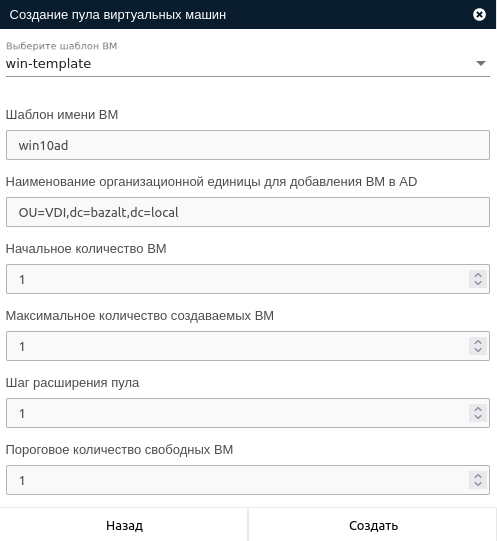
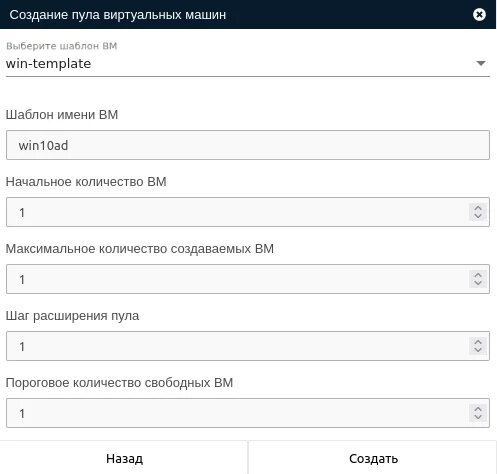
FEATURE TG-14658 + FEATURE TG-14659 подготовка гостевой пул + дока

diff --git a/frontend/src/app/pages/pools/pool-details/pool-details.component.ts b/frontend/src/app/pages/pools/pool-details/pool-details.component.ts
@@ -267,38 +267,6 @@ export class PoolDetailsComponent implements OnInit, OnDestroy {
       }
     },
     {
-      title: 'Включать удаленный доступ на ВМ',
-      property: 'enable_vms_remote_access',
-      type: {
-        typeDepend: 'boolean',
-        propertyDepend: ['Да', 'Нет']
-      }
-    },
-    {
-      title: 'Включать ВМ',
-      property: 'start_vms',
-      type: {
-        typeDepend: 'boolean',
-        propertyDepend: ['Да', 'Нет']
-      }
-    },
-    {
-      title: 'Задавать hostname ВМ',
-      property: 'set_vms_hostnames',
-      type: {
-        typeDepend: 'boolean',
-        propertyDepend: ['Да', 'Нет']
-      }
-    },
-    {
-      title: 'Вводить ВМ в домен',
-      property: 'include_vms_in_ad',
-      type: {
-        typeDepend: 'boolean',
-        propertyDepend: ['Да', 'Нет']
-      }
-    },
-    {
       title: 'Держать ВМ с пользователями включенными',
       property: 'keep_vms_on',
       type: {
@@ -352,10 +320,25 @@ export class PoolDetailsComponent implements OnInit, OnDestroy {
       edit: 'changeTemplateForVmAutomatedPool'
     },
     {
-      title: 'Наименование организационной единицы для добавления ВМ в AD',
-      property: 'ad_ou',
-      type: 'string',
-      edit: 'changeAdCnPatternForGroupAutomatedPool'
+      title: 'Подготавливать ВМ',
+      group: [
+        {
+          title: 'Включать удаленный доступ на ВМ',
+          property: 'enable_vms_remote_access',
+          type: {
+            typeDepend: 'boolean',
+            propertyDepend: ['Да', 'Нет']
+          }
+        },
+        {
+          title: 'Включать ВМ',
+          property: 'start_vms',
+          type: {
+            typeDepend: 'boolean',
+            propertyDepend: ['Да', 'Нет']
+          }
+        }
+      ]
     },
     {
       title: 'Пользователи',

diff --git a/frontend/src/app/pages/pools/add-pool/add-pool.component.ts b/frontend/src/app/pages/pools/add-pool/add-pool.component.ts
@@ -110,7 +110,7 @@ export class PoolAddComponent implements OnInit, OnDestroy {
       total_size: [1, [Validators.required, Validators.max(10000), Validators.min(1)]],
 
       create_thin_clones: true,
-      
+
       enable_vms_remote_access: true,
       start_vms: true,
       set_vms_hostnames: true,
@@ -301,7 +301,7 @@ export class PoolAddComponent implements OnInit, OnDestroy {
         this.dynamicPool.get('start_vms').setValue(true);
         this.dynamicPool.get('set_vms_hostnames').setValue(true);
         if (this.auth_dirs.length) { this.dynamicPool.get('include_vms_in_ad').setValue(true); }
- 
+
         this.warming_vm.valueChanges.subscribe((value) => {
 
           if (value) {
@@ -375,8 +375,6 @@ export class PoolAddComponent implements OnInit, OnDestroy {
         this.guestPool.get('is_guest').setValue(true);
         this.guestPool.get('enable_vms_remote_access').setValue(true);
         this.guestPool.get('start_vms').setValue(true);
-        this.guestPool.get('set_vms_hostnames').setValue(true);
-        if (this.auth_dirs.length) { this.guestPool.get('include_vms_in_ad').setValue(true); }
       }             break;
 
       case 'check_guest': {

diff --git a/frontend/src/app/pages/pools/add-pool/add-pool.component.html b/frontend/src/app/pages/pools/add-pool/add-pool.component.html
@@ -342,17 +342,6 @@
         <div class="error" [@animForm]="error" *ngIf="guestPool.hasError('pattern', 'vm_name_template')">Имя шаблона не должно превышать 63 символа и может состоять из букв латинского алфавита, цифр и -.</div>
       </label>
 
-      <label class="field" *ngIf="auth_dirs.length">
-        <p class="field-name">Наименование организационной единицы для добавления ВМ в AD</p>
-        <input type="text" formControlName="ad_ou">
-
-        <ng-container *ngIf="guestPool.hasError('required', 'ad_ou') && checkValid">
-          <ng-container *ngTemplateOutlet="errorTemp"></ng-container>
-        </ng-container>
-
-        <div class="error" [@animForm]="error" *ngIf="guestPool.hasError('pattern', 'ad_ou')">Имя содержит недопустимые символы</div>
-      </label>
-
       <label class="field">
         <p class="field-name">Начальное количество ВМ</p>
         <input type="number" formControlName="initial_size" min="1" max="200">

diff --git a/frontend/src/app/pages/pools/add-pool/add-pool.service.ts b/frontend/src/app/pages/pools/add-pool/add-pool.service.ts
@@ -218,7 +218,6 @@ export class AddPoolService {
                 $reserve_size: Int
                 $total_size: Int
                 $initial_size: Int
-                $ad_ou: ShortString
             ) {
                 addDynamicPool(
                     connection_types: $connection_types
@@ -236,9 +235,8 @@ export class AddPoolService {
                     create_thin_clones: true
                     enable_vms_remote_access: true
                     start_vms: true
-                    set_vms_hostnames: true
-                    include_vms_in_ad: true
-                    ad_ou: $ad_ou
+                    set_vms_hostnames: false
+                    include_vms_in_ad: false
                     is_guest: true
                 ) {
                     ok

diff --git a/frontend/src/app/pages/pools/pool-details/vm-details-popup/vm-details-popup.component.ts b/frontend/src/app/pages/pools/pool-details/vm-details-popup/vm-details-popup.component.ts
@@ -913,7 +913,7 @@ export class VmDetalsPopupComponent implements OnInit {
   }
 
   public prepareVM() {
-    if (this.data.typePool === 'automated') {
+    if (this.data.typePool === 'automated' || this.data.typePool === 'guest') {
       this.dialog.open(YesNoFormComponent, {
         disableClose: true,
         width: '500px',

diff --git a/backend/common/models/vm.py b/backend/common/models/vm.py
@@ -1080,12 +1080,12 @@ class Vm(VeilModel):
                 await self.enable_remote_access()
             if automated_pool.start_vms:
                 await self.start()
-            if automated_pool.set_vms_hostnames:
-                await self.set_hostname_and_reboot()
-
-            if active_directory_obj and automated_pool.include_vms_in_ad:
-                await self.include_in_ad(active_directory_obj,
-                                         ad_ou=ad_ou)
+            if not automated_pool.is_guest:
+                if automated_pool.set_vms_hostnames:
+                    await self.set_hostname_and_reboot()
+                if active_directory_obj and automated_pool.include_vms_in_ad:
+                    await self.include_in_ad(active_directory_obj,
+                                             ad_ou=ad_ou)
 
             # Протоколируем успех
             msg = _local_("VM {} has been prepared.").format(self.verbose_name)

diff --git a/docs/ru/broker/pools/guest_pool.md b/docs/ru/broker/pools/guest_pool.md
@@ -12,7 +12,6 @@
 
 ### Подготовительные шаги
 1. Подготовить базовый шаблон ВМ [veil-guest-utils](../vm/guest_agent.md).
-1. В случае использования настроить [расширенную интеграцию](../active_directory/ad_extend.md) с MS AD на брокере.
 
 ### Создание гостевого пула
 Создание гостевого пула производится с помощью кнопки **Добавить пул** в разделе **Пулы** панели администратора.
@@ -24,24 +23,19 @@
 
 !!! info "Подготовка ВМ"
         Также при создании гостевого пула все ВМ **ВСЕГДА** будут подготавливаться после их создания. 
-        Включение в домен MS AD и организационную единицу (OU) для ВМ выполняется только, если ранее была добавлена 
-        [служба каталогов](../active_directory/ad_extend.md). **Служба каталогов** на **VDI** может не совпадать со 
-        службой каталогов на **ECP VeiL**.
 
 #### Процесс подготовки ВМ
-Процесс подготовки ВМ включает в себя следующие шаги:
+Процесс подготовки ВМ для гостевого пула включает в себя следующие шаги:
 
 1. Проверка и включение настройки удаленного доступа на ECP VeiL.
-1. Задание имени хоста (hostname) по имени ВМ.
-1. Заведение ВМ в домен (исключительно для OS Windows) MS AD с использованием powershell из ВМ.
-1. Заведение ВМ в организационную единицу (OU) MS AD с использованием LDAP напрямую на контроллере домена.
+1. Включение ВМ.
 
 !!! warning "Подготовка ВМ"
     Если в процессе создания пула подготовились не все ВМ или необходимо выполнить подготовку по изменившимся параметрам,
     то следует нажать кнопку **Подготовить ВМ** в разделе **Информация**. Данная кнопка продолжит подготовку ВМ с последнего 
     успешного действия. 
 
-Ниже приведено описание полей при создании автоматического пула:
+Ниже приведено описание полей при создании гостевого пула:
 
 1. **Имя пула**  
 Будет использовано как [тег](https://veil.mashtab.org/docs/base/operator_guide/domains/tags) на ECP VeiL для всех созданных ВМ
@@ -84,19 +78,6 @@
 Имя шаблона не должно превышать 63 символа и может состоять из букв латинского алфавита, цифр и "-". 
 Ограничения вызваны тем, что имя ВМ будет назначено в качестве **hostname** при ее подготовке.
 
-1. **Наименование организационной единицы для добавления ВМ в AD**  
-Указание **Организационная единица домена (OU)** для MS AD, в которую необходимо включить созданные ВМ при подготовке.
-   
-    !!! note "Пример добавления ВМ в AD"
-        1. Чтобы добавить ВМ в OU=VDI домена bazalt.local необходимо указать 
-          **OU=VDI,dc=bazalt,dc=local**
-        2. Чтобы добавить ВМ в OU=VDI внутри ou=vdiou домена bazalt.local необходимо указать 
-          **OU=VDI,ou=vdiou,dc=bazalt,dc=local**
-
-    !!! note "Наименование организационной единицы для добавления ВМ в AD"
-        Если необходимость включения ВМ в OU отсутствует, оставьте поле пустым, тогда этот шаг будет пропущен.
-        ВМ присоединится к организационной единице «Компьютеры», которая используется по умолчанию.
-
 1. **Начальное количество ВМ**  
 Количество ВМ, которое будет создано вместе с пулом.
 
@@ -111,6 +92,3 @@
 
 #### Пример формы создания ВМ в пуле
 ![image](../../_assets/vdi/pool/guestpool.png)
-
-!!! warning "Удаление ВМ"
-    Если пул был удален, не забудьте вывести все ранее создаваемые ВМ из MS AD.   

diff --git a/docs/ru/broker/pools/automated_pool_v3.md b/docs/ru/broker/pools/automated_pool_v3.md
@@ -7,6 +7,7 @@
 Процесс подготовки ВМ включает в себя следующие шаги:
 
 1. Проверка и включение настройки удаленного доступа на **ECP VeiL**.
+1. Включение ВМ.
 1. Задание имени хоста (hostname) по имени ВМ.
 1. Заведение ВМ в домен (исключительно для OS Windows) MS AD с использованием powershell из ВМ.
 1. Заведение ВМ в организационную единицу (OU) MS AD с использованием LDAP напрямую на контроллере домена.
@@ -98,9 +99,15 @@
 [Типы пулов данных](https://veil.mashtab.org/docs/base/operator_guide/storage/info).
 
 9. **Подготавливать ВМ**  
-Необходимость запуска процедуры подготовки ВМ после их создания. Включение в домен MS AD и организационную единицу (OU) 
-для ВМ выполняется только, если ранее была добавлена [служба каталогов](../active_directory/ad_extend.md). **Служба 
-каталогов** на **VDI** может не совпадать со службой каталогов на **ECP VeiL**.
+Необходимость запуска процедуры подготовки ВМ после их создания. Содержит в себе 4 этапа:
+    - Проверка и включение настройки удаленного доступа на **ECP VeiL**.
+    - Включение ВМ.
+    - Задание имени хоста (hostname) по имени ВМ.
+    - Заведение ВМ в домен (исключительно для OS Windows) MS AD. Если была указана организационная единица (OU) MS AD,
+      то ВМ введутся непосредственно в нее. 
+Включение в домен MS AD и организационную единицу (OU) для ВМ выполняется только, если ранее была добавлена 
+[служба каталогов](../active_directory/ad_extend.md). **Служба каталогов** на **VDI** может не совпадать со службой 
+каталогов на **ECP VeiL**.
 
 !!! warning "Подготавливать ВМ"
     Если на пуле отсутствовал данный параметр в момент создания, то действовать он начнет только после его активации
